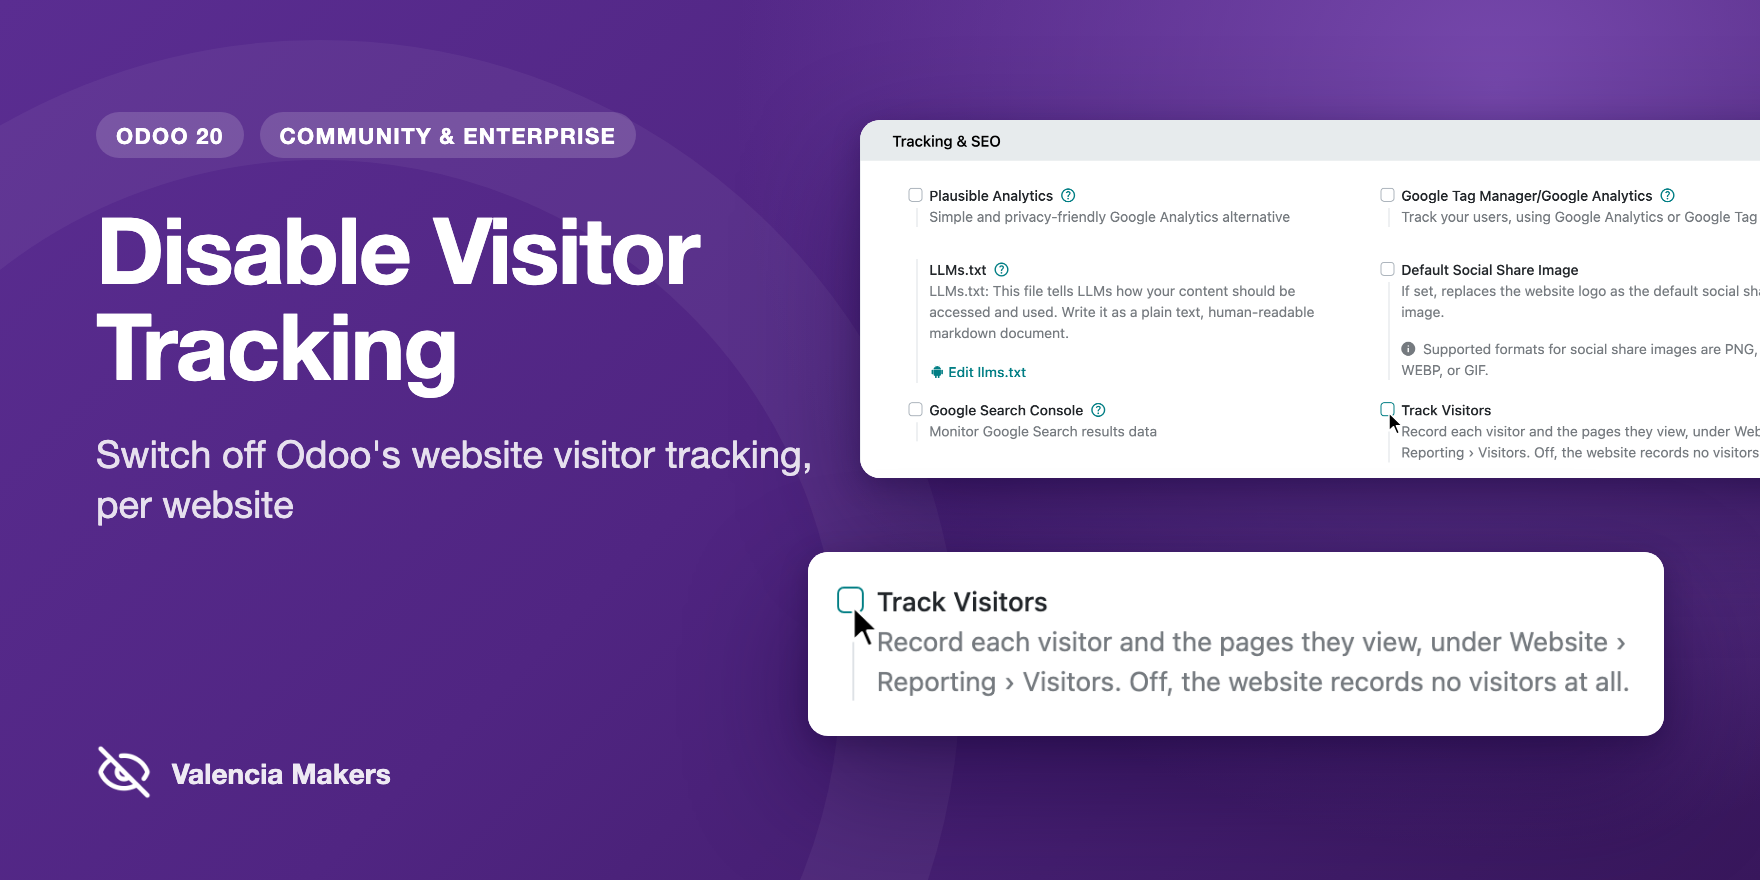
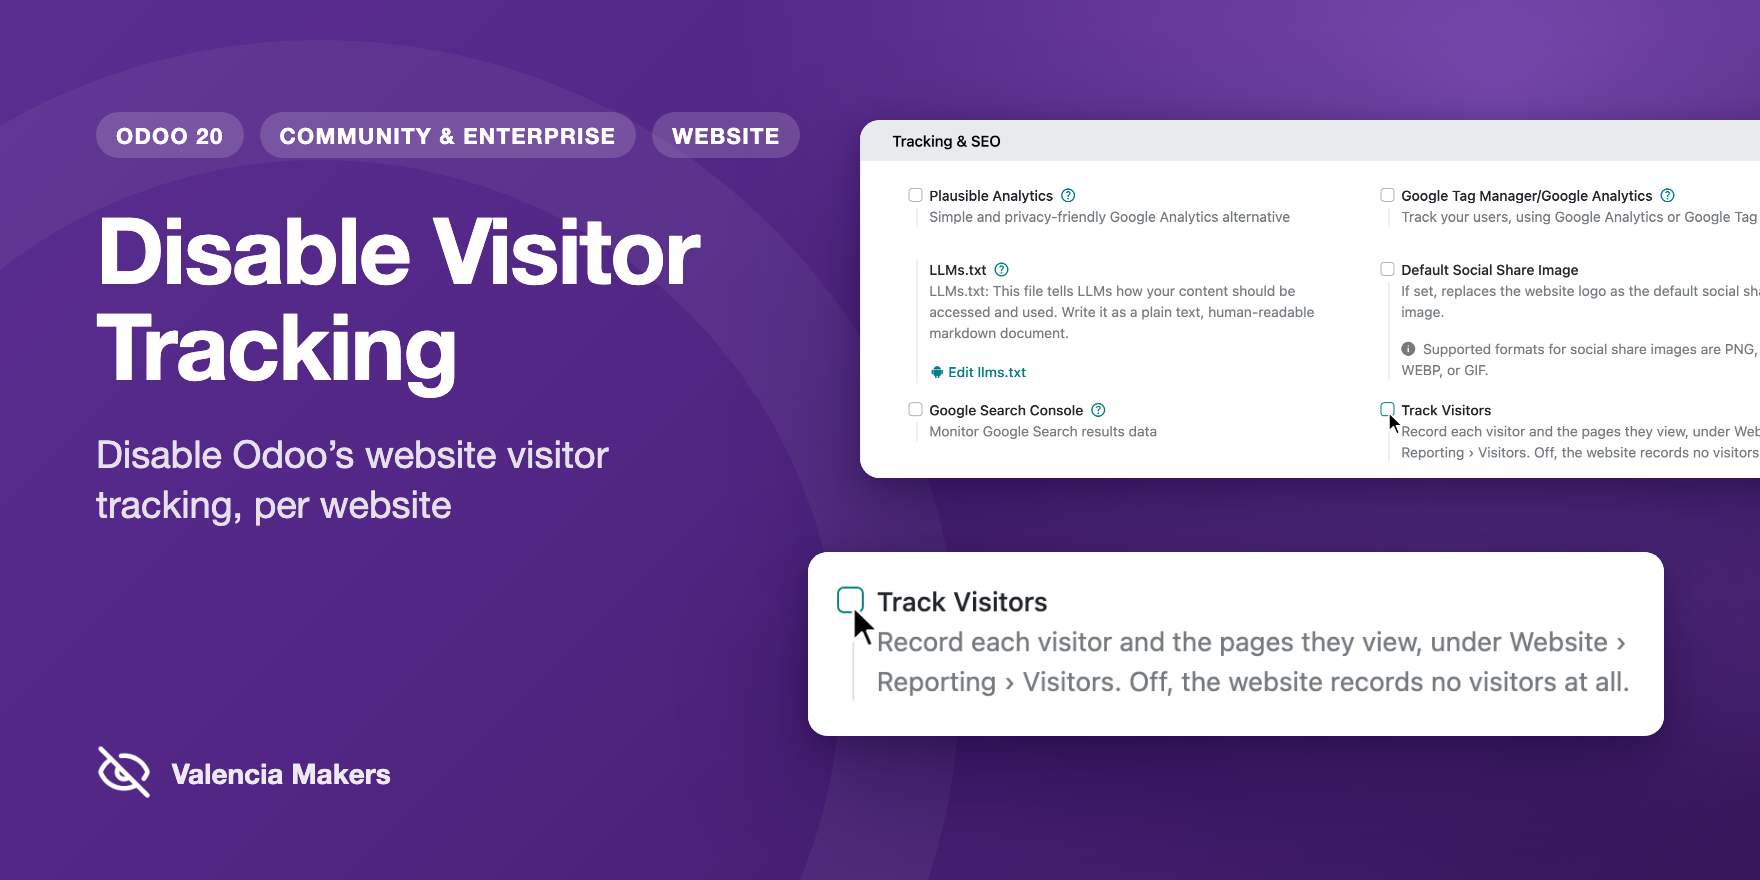
Reword vmk_website_disable_tracking's summary; add a Website badge to its cover
- New summary: "Disable Odoo’s website visitor tracking, per website", with a curly
  apostrophe, in the manifest, the translation test, the manual, the README, and every
  catalogue. The Spanish and Catalan already said "disable", so they stay.
- The cover's tagline breaks after "visitor", and a Website badge joins the other two,
  though there is no version of the module without the website.

Changed region(s): [[0.0625, 0.4909, 0.4688, 0.6136], [0.375, 0.1227, 0.4688, 0.1841]]

diff --git a/tools/covers/vmk_website_disable_tracking.html b/tools/covers/vmk_website_disable_tracking.html
@@ -7,9 +7,9 @@
 <body>
 <div class="cover">
     <div class="text">
-        <div class="badges"><span class="badge">Odoo 20</span><span class="badge">Community &amp; Enterprise</span></div>
+        <div class="badges"><span class="badge">Odoo 20</span><span class="badge">Community &amp; Enterprise</span><span class="badge">Website</span></div>
         <h1>Disable Visitor Tracking</h1>
-        <p class="tagline">Switch off Odoo's website visitor tracking, per website</p>
+        <p class="tagline">Disable Odoo’s website visitor<br>tracking, per website</p>
     </div>
     <div class="brand"><img src="../../vmk_website_disable_tracking/static/description/icon.png" alt="">Valencia Makers</div>
     <!-- Behind: the Tracking & SEO block of the Website settings (1064x357 CSS px at 2x) at 0.5,

diff --git a/vmk_website_disable_tracking/tests/test_translations.py b/vmk_website_disable_tracking/tests/test_translations.py
@@ -29,7 +29,7 @@ class TestModuleNameTranslation(TransactionCase):
     I18N = Path(__file__).resolve().parent.parent / "i18n"
     MODULE_METADATA = (
         "Disable Visitor Tracking",
-        "Switch off Odoo's website visitor tracking, per website",
+        "Disable Odoo’s website visitor tracking, per website",
     )
 
     def _translation(self, catalogue, msgid):

diff --git a/vmk_website_disable_tracking/__manifest__.py b/vmk_website_disable_tracking/__manifest__.py
@@ -3,7 +3,7 @@
 
 {
     "name": "Disable Visitor Tracking",
-    "summary": "Switch off Odoo's website visitor tracking, per website",
+    "summary": "Disable Odoo’s website visitor tracking, per website",
     "version": "20.0.1.0.0",
     "author": "Valencia Makers",
     "license": "LGPL-3",

diff --git a/vmk_website_disable_tracking/README.md b/vmk_website_disable_tracking/README.md
@@ -1,9 +1,9 @@
 # Disable Visitor Tracking (`vmk_website_disable_tracking`)
 
-Switch off Odoo's website visitor tracking, per website. Odoo's Website app records every visitor
-and the pages they view by default, under Website › Reporting › Visitors. This module turns that off
-on every website the moment it is installed, and adds a **Track Visitors** setting to turn it back
-on for any website that wants it.
+Disable Odoo’s website visitor tracking, per website. Odoo's Website app records every visitor and
+the pages they view by default, under Website › Reporting › Visitors. This module turns that off on
+every website the moment it is installed, and adds a **Track Visitors** setting to turn it back on
+for any website that wants it.
 
 **How to use it** is in the user documentation, [`doc/index.rst`](doc/index.rst), which the Odoo
 Apps Store also shows on the module's page, together with the changelog.

diff --git a/vmk_website_disable_tracking/doc/index.rst b/vmk_website_disable_tracking/doc/index.rst
@@ -1,4 +1,4 @@
-Switch off Odoo's website visitor tracking, per website.
+Disable Odoo’s website visitor tracking, per website.
 
 In standard Odoo, the **Website** app records every visitor and each page they view, under
 **Website › Reporting › Visitors**: an id made from their IP address, browser, and session, the
